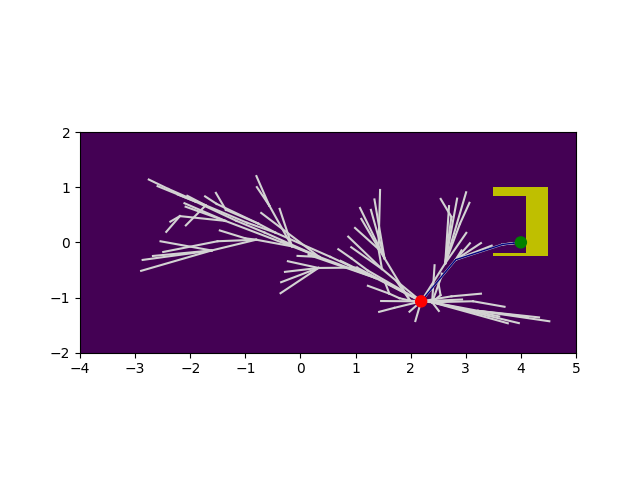
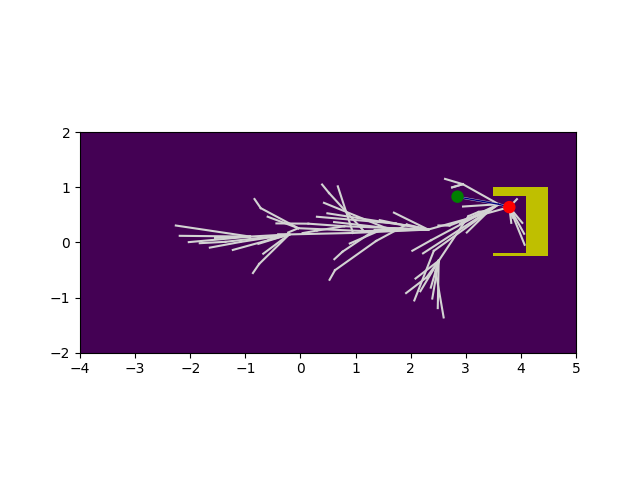
Add new obstacle handling and data processing for second cube in add_cube_obstacle.py

Changed region(s): [[0.2188, 0.375, 0.8438, 0.6875], [0.2188, 0.375, 0.2812, 0.4062]]

diff --git a/our_code/add_cube_obstacle.py b/our_code/add_cube_obstacle.py
@@ -20,6 +20,7 @@ from shapely.geometry import Polygon  # Ensure this is imported
 
 
 
+
 c_pos, c_rot, c_rad = [0,0,0], 0, 0
 t_pos2, t_rot2, t_rad2 = [0,0,0], 0, 0
 t_pos, t_rot, t_rad = [0,0,0], 0, 0
@@ -131,26 +132,58 @@ def GoToTarget(is_cube = True, curr_t_pos = t_pos):
 
 
 
-# Function get data where the  robot car and where the cube is and calculate the path to the cube
-def get_path_to_target(start_pos, goal_pos):
-    # Initialize the map environment with the JSON file path
+def add_cube_obstacle(env, cube_pos, size=0.1):
+    """
+    Adds a square obstacle representing a cube to the environment.
+
+    Args:
+        env (MapEnvironment): The planning environment object.
+        cube_pos (list): The [x, y, z] position of the cube (only x and z used).
+        size (float): The size of the cube (side length in meters).
+    """
+    cx, cz = cube_pos[0], cube_pos[2]
+    half = size / 2
+    obstacle = [
+        [cx - half, cz - half],
+        [cx + half, cz - half],
+        [cx + half, cz + half],
+        [cx - half, cz + half],
+        [cx - half, cz - half]
+    ]
+    env.obstacles.append(Polygon(obstacle))
+    print(f"AAAAAAAAAAAAAAAAAAAAAAAAdded cube obstacle at position {cube_pos} with size {size}m.")
+
+def get_path_to_target(start_pos, goal_pos, cube_obstacles=[]):
+    """
+    Plans a path from the robot's current position to the goal,
+    optionally considering additional dynamic cube obstacles.
+
+    Args:
+        start_pos (list): The [x, y, z] start position.
+        goal_pos (list): The [x, y, z] goal position.
+        cube_obstacles (list): List of cube positions to treat as obstacles.
+
+    Returns:
+        plan (list of [x, y]): A list of waypoints representing the path.
+    """
     json_file_path = "our_code/path_algorithms/map1.json"
     planning_env = MapEnvironment(json_file=json_file_path)
-    planning_env.start = np.array([start_pos[0], start_pos[2]])  # Use x and y coordinates for the start position
-    planning_env.goal = np.array([goal_pos[0], goal_pos[2]])  # Use x and y coordinates for the goal position
+    planning_env.start = np.array([start_pos[0], start_pos[2]])
+    planning_env.goal = np.array([goal_pos[0], goal_pos[2]])
 
-    # Create an instance of the RCSPlanner with the planning environment
-    planner = RRTStarPlanner(planning_env=planning_env,ext_mode='E2',goal_prob=0.05,k=10)
+    # Add dynamic obstacles (e.g., cubes detected in the environment)
+    for cube_pos in cube_obstacles:
+        print(f"BBBBBBBBBBAdding cube obstacle at position {cube_pos}.")
+        add_cube_obstacle(planning_env, cube_pos)
 
-    # Execute the planning algorithm to get the path
+    planner = RRTStarPlanner(planning_env=planning_env, ext_mode='E2', goal_prob=0.05, k=10)
     plan = planner.plan()
-
-    # Visualize the map with the computed plan and expanded nodes
-    planner.planning_env.visualize_map(plan=plan, tree_edges=planner.tree.get_edges_as_states())
+    planning_env.visualize_map(plan=plan, tree_edges=planner.tree.get_edges_as_states())
     return plan
-    
+
+
 try:
-    send_servo_request(30)
+    # send_servo_request(30)
     with streaming_client:
         streaming_client.request_modeldef()
 
@@ -159,30 +192,36 @@ try:
         time.sleep(1)  # Allow some time for the client to start and receive data
         print("Streaming started. Waiting for data...")
         plan = []
-        plan=get_path_to_target(c_pos, t_pos)
+        print("ctf_car")
+        print("c_pos: ", c_pos, "c_rot: ", c_rot, "c_rad: ", c_rad)
+        print("ctf_cube")
+        print("t_pos: ", t_pos, "t_rot: ", t_rot, "t_rad: ", t_rad)
+        print("ctf_cube2")
+        print("t_pos2: ", t_pos2, "t_rot2: ", t_rot2, "t_rad2: ", t_rad2)
+        plan=get_path_to_target(c_pos, t_pos,[t_pos2])
 
         #iteration nover the plan
         for i in range(len(plan) - 1):
             go_to_pos = [plan[i+1][0],0, plan[i+1][1]]  # Add an extra element (e.g., 0) to go_to_pos
             print("Current position:", go_to_pos)
-            turnToTarget(False, go_to_pos)
-            turnToTarget(False, go_to_pos)
-            GoToTarget(False, go_to_pos)
+            # turnToTarget(False, go_to_pos)
+            # turnToTarget(False, go_to_pos)
+            # GoToTarget(False, go_to_pos)
 
         # turnToTarget()
         # turnToTarget()
         # GoToTarget()
         print("Chaser is facing the target.")
     
-        send_servo_request(57)
-        plan=get_path_to_target(c_pos, base_pos)
-        print("finished planening")
-        for i in range(len(plan) - 1):
-            go_to_pos = [plan[i+1][0],0, plan[i+1][1]]  # Add an extra element (e.g., 0) to go_to_pos
-            print("Current position:", go_to_pos)
-            turnToTarget(False, go_to_pos)
-            turnToTarget(False, go_to_pos)
-            GoToTarget(False, go_to_pos)
+        # send_servo_request(57)
+        # plan=get_path_to_target(c_pos, base_pos)
+        # # print("finished planening")
+        # for i in range(len(plan) - 1):
+        #     go_to_pos = [plan[i+1][0],0, plan[i+1][1]]  # Add an extra element (e.g., 0) to go_to_pos
+        #     print("Current position:", go_to_pos)
+            # turnToTarget(False, go_to_pos)
+            # turnToTarget(False, go_to_pos)
+            # GoToTarget(False, go_to_pos)
         
         # turnToTarget(False, base_pos)
         # turnToTarget(False, base_pos)
@@ -190,58 +229,11 @@ try:
         print("KNOW WE CAN GO TO THE TARGET POSITION")
 
         
-    send_servo_request(30)
+    # send_servo_request(30)
     print("c_pos: ", c_pos, "c_rot: ", c_rot, "c_rad: ", c_rad)
     print("t_pos: ", t_pos, "t_rot: ", t_rot, "t_rad: ", t_rad)
 
 
-# try:
-#     send_servo_request(30)
-#     with streaming_client:
-#         streaming_client.request_modeldef()
-
-#         streaming_client.update_sync()
-#         #streaming_client.run_async()
-#         time.sleep(1)  # Allow some time for the client to start and receive data
-#         print("Streaming started. Waiting for data...")
-#         plan = []
-#         plan=get_path_to_target(c_pos, t_pos)
-
-#         #iteration nover the plan
-#         for i in range(len(plan) - 1):
-#             go_to_pos = [plan[i+1][0],0, plan[i+1][1]]  # Add an extra element (e.g., 0) to go_to_pos
-#             print("Current position:", go_to_pos)
-#             if i == 0:
-#                 turnToTarget(False, go_to_pos)
-#                 print("first turn to target")
-#             GoToTargetWithSteer(False, go_to_pos)
-
-#         # turnToTarget()
-#         # turnToTarget()
-#         # GoToTarget()
-#         print("Chaser is facing the target.")
-    
-#         send_servo_request(57)
-#         plan=get_path_to_target(c_pos, base_pos)
-#         print("finished planening")
-#         for i in range(len(plan) - 1):
-#             go_to_pos = [plan[i+1][0],0, plan[i+1][1]]  # Add an extra element (e.g., 0) to go_to_pos
-#             print("Current position:", go_to_pos)
-#             if i == 0:
-#                 turnToTarget(False, go_to_pos)
-#                 print("first turn to target")
-#             GoToTargetWithSteer(False, go_to_pos)
-
-        
-#         # turnToTarget(False, base_pos)
-#         # turnToTarget(False, base_pos)
-#         # GoToTarget(False, base_pos)
-#         print("KNOW WE CAN GO TO THE TARGET POSITION")
-
-        
-#     send_servo_request(30)
-#     print("c_pos: ", c_pos, "c_rot: ", c_rot, "c_rad: ", c_rad)
-#     print("t_pos: ", t_pos, "t_rot: ", t_rot, "t_rad: ", t_rad)
 
 
 
